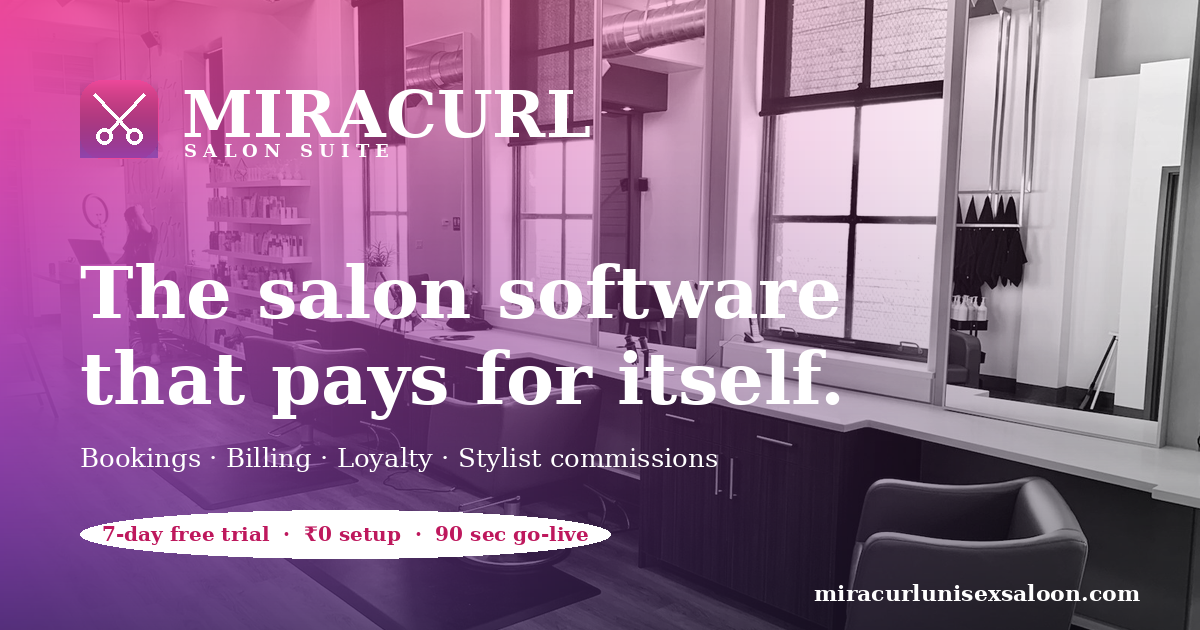
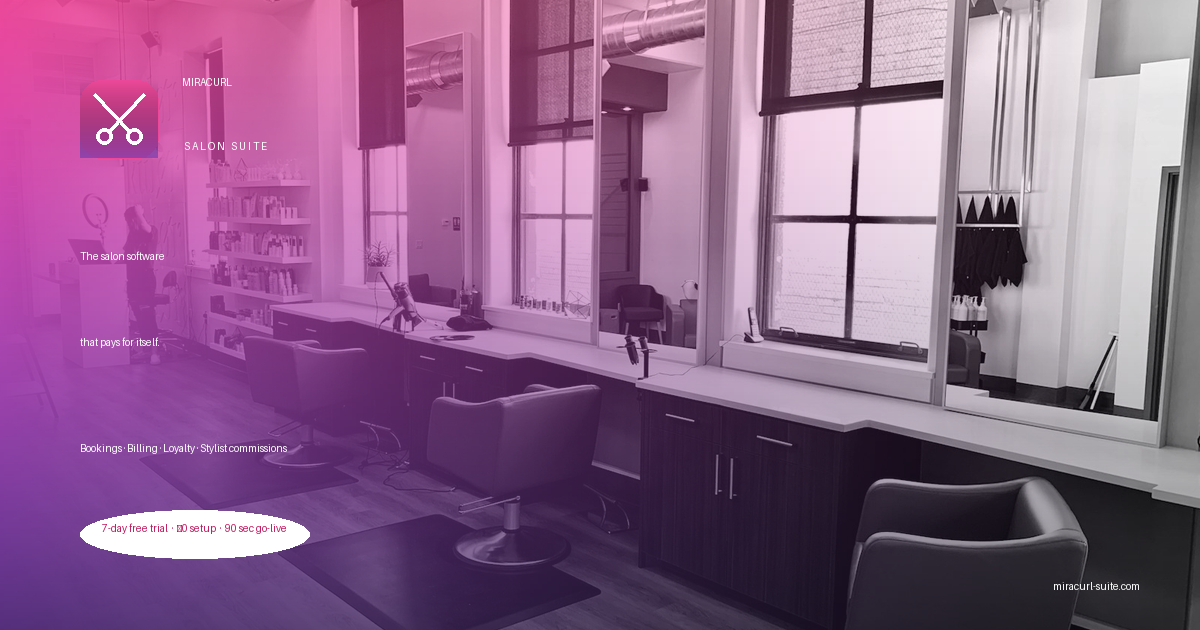
auto-commit for d0b3f8dc-a656-4df0-8213-a9fc5b31ec1f

diff --git a/frontend/src/lib/api.js b/frontend/src/lib/api.js
@@ -78,7 +78,7 @@ export function formatApiError(detail) {
  */
 export function detectTenantSlug() {
   const host = window.location.hostname.toLowerCase();
-  // production wildcard subdomains: {slug}.miracurlunisexsaloon.com
+  // production wildcard subdomains: {slug}.miracurl-suite.com
   // (also keep legacy .miracurl.com for backwards-compat with earlier branding)
   const wildcardDomains = [".miracurl-suite.com", ".miracurlunisexsaloon.com", ".miracurl.com"];
   for (const d of wildcardDomains) {

diff --git a/scripts/build_og_image.py b/scripts/build_og_image.py
@@ -148,7 +148,7 @@ def draw_brand(img: Image.Image) -> None:
 
     # ─── Domain (bottom-right corner) ───
     font_url = load_font(22, bold=True)
-    domain = "miracurlunisexsaloon.com"
+    domain = "miracurl-suite.com"
     dw = d.textlength(domain, font=font_url)
     d.text((W - dw - 60, H - 50), domain, font=font_url, fill=(255, 255, 255, 235))
 

diff --git a/backend/docs/INFRA_BACKUP.md b/backend/docs/INFRA_BACKUP.md
@@ -2,7 +2,7 @@
 
 > **Purpose:** you can re-deploy the entire app on any hosting provider using ONLY this file + the code from this repo. Fill in the blanks below privately (never commit real secret values).
 
-**Author:** Bablu K · **GitHub:** https://github.com/BabluK · **Prod URL:** https://miracurlunisexsaloon.com
+**Author:** Bablu K · **GitHub:** https://github.com/BabluK · **Prod URL:** https://miracurl-suite.com
 
 ---
 
@@ -44,7 +44,7 @@ FRONTEND_URL="*"
 
 ```bash
 # Backend base URL — where FastAPI is running
-REACT_APP_BACKEND_URL="https://miracurlunisexsaloon.com"
+REACT_APP_BACKEND_URL="https://miracurl-suite.com"
 ```
 
 ---
@@ -55,7 +55,7 @@ REACT_APP_BACKEND_URL="https://miracurlunisexsaloon.com"
 |---|---|---|
 | Razorpay | Card / UPI / NetBanking checkout | https://dashboard.razorpay.com |
 | MongoDB Atlas (or Emergent-hosted) | Database | Emergent support → connection string, or Atlas dashboard |
-| Custom domain | miracurlunisexsaloon.com | Your registrar (BigRock / GoDaddy / etc.) DNS → point CNAME/A at your host |
+| Custom domain | miracurl-suite.com | Your registrar (BigRock / GoDaddy / etc.) DNS → point CNAME/A at your host |
 | Google Business Profile | SEO + reviews | https://business.google.com — links back via `google_review_url` |
 | Instagram | Public link on booking page | Configure via `/settings` → Salon Profile |
 | WhatsApp | Support + reminders | Any personal number, no API keys needed for tap-to-send |
@@ -95,4 +95,4 @@ yarn build
 
 - Platform / Emergent: `support@emergent.sh` (include your Job ID)
 - Razorpay: https://razorpay.com/support — 24/7 chat inside dashboard
-- Domain registrar: whoever you bought `miracurlunisexsaloon.com` from
+- Domain registrar: whoever you bought `miracurl-suite.com` from

diff --git a/README.md b/README.md
@@ -2,7 +2,7 @@
 
 A multi-tenant SaaS platform for salon & parlour management: online bookings, POS billing, staff HR (geo-fenced attendance, salaries, resumes), AI marketing tools, subscription billing and a Super-Admin command console.
 
-- **Production:** https://miracurlunisexsaloon.com
+- **Production:** https://miracurl-suite.com
 - **Architecture:** React SPA + FastAPI REST API + MongoDB (single repo, `frontend/` + `backend/`)
 
 ---
@@ -210,4 +210,4 @@ yarn start        # http://localhost:3000
 
 ## Deployment
 - Preview/dev runs under supervisord (hot reload on both services).
-- Production is deployed via the Emergent platform to **https://miracurlunisexsaloon.com** — after merging changes, redeploy from the platform to go live.
+- Production is deployed via the Emergent platform to **https://miracurl-suite.com** — after merging changes, redeploy from the platform to go live.

diff --git a/backend/README.md b/backend/README.md
@@ -2,7 +2,7 @@
 
 > **Multi-tenant SaaS for Indian salons** — online bookings, POS billing, per-stylist commissions, loyalty rewards, WhatsApp reminders, referral program, and Razorpay subscription billing.
 
-🌐 **Live:** [miracurlunisexsaloon.com](https://miracurlunisexsaloon.com)
+🌐 **Live:** [miracurl-suite.com](https://miracurl-suite.com)
 📱 **Support WhatsApp:** +91 82170 72523
 📸 **Instagram:** [@miracurl_unisex_salon](https://www.instagram.com/miracurl_unisex_salon/)
 
